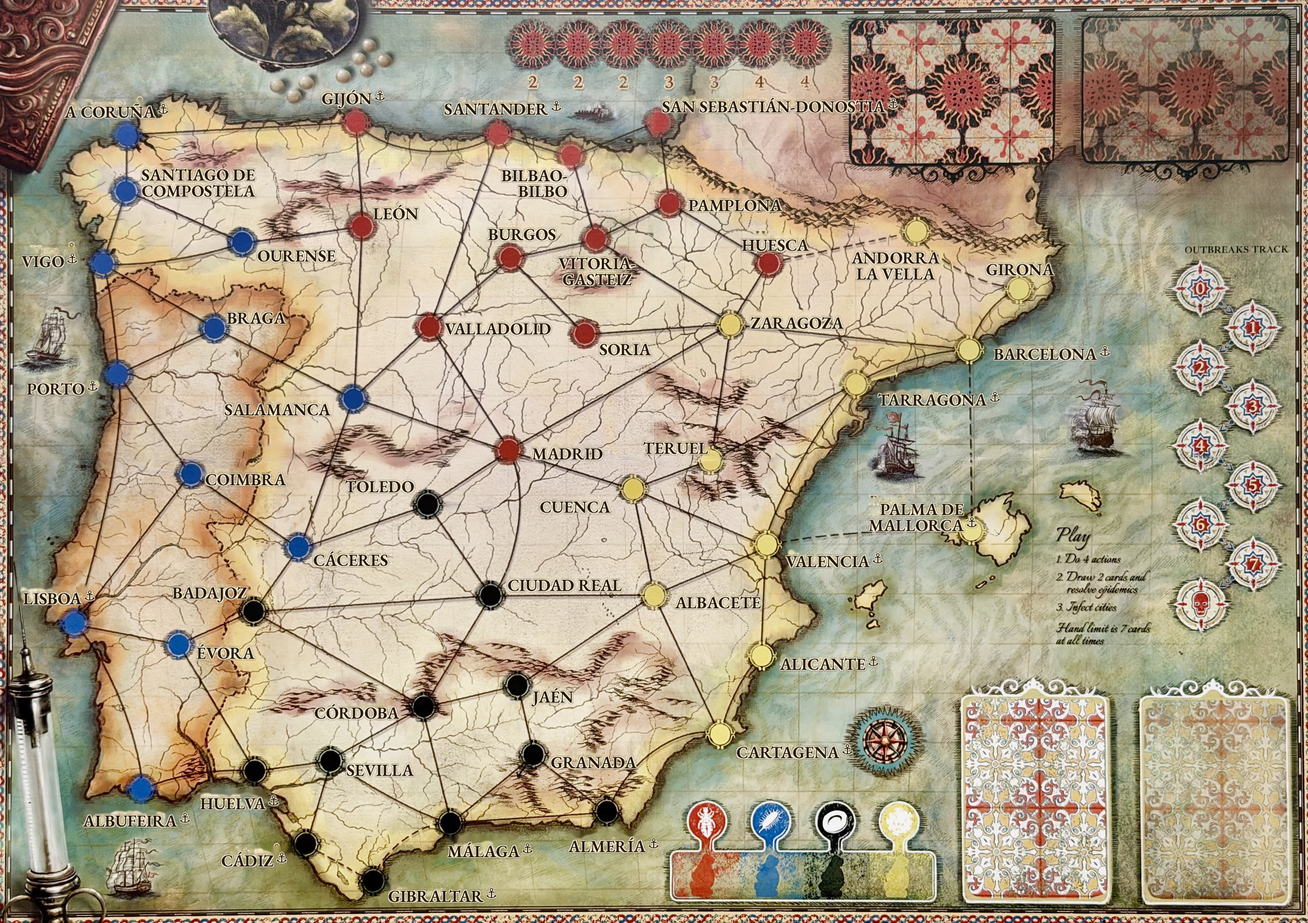
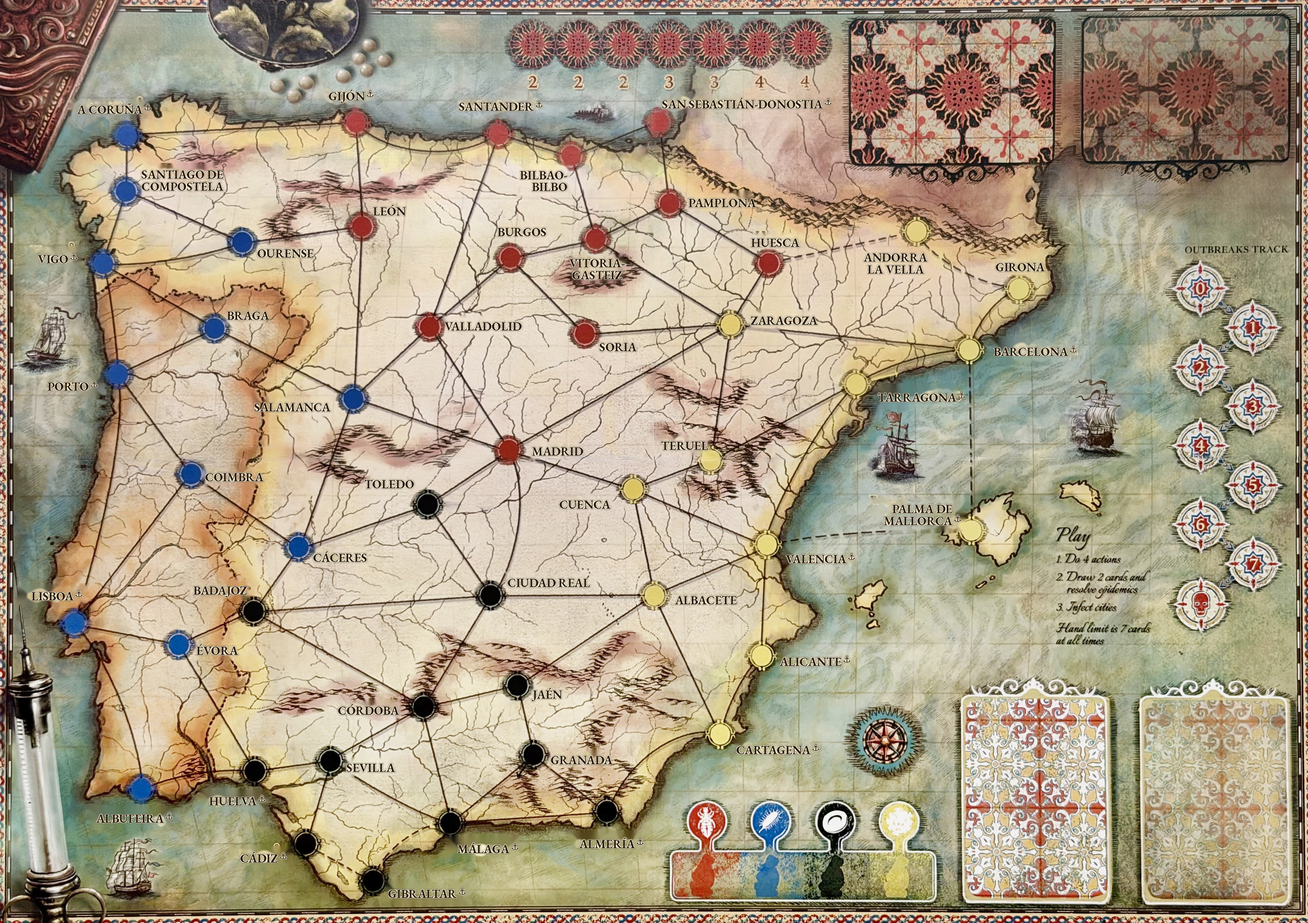
board_clear.jpeg: smaller city names set over the originals
Claude-Session: https://claude.ai/code/session_01MSiwQPWeNrmb6Lp3gKWw7k

diff --git a/tools/clear_board_text.py b/tools/clear_board_text.py
@@ -5,7 +5,7 @@ import json,re,sys,math
 import numpy as np,cv2
 from PIL import Image,ImageDraw,ImageFont
 R='/home/claude/iberia/'
-SIZE=int(sys.argv[1]) if len(sys.argv)>1 else 50
+SIZE=int(sys.argv[1]) if len(sys.argv)>1 else 36
 src=open(R+'src/ui.js').read()
 LO=json.loads(re.search(r"const LABEL_OFF=(\{.*?\});",src).group(1))
 M=json.JSONDecoder().raw_decode(open(R+'src/map.js').read().split('=',1)[1].lstrip())[0]
@@ -23,11 +23,13 @@ for cid,o in LO.items():
     cx,cy=C[cid]['x'],C[cid]['y']
     p0=to_img(cx+o[0]-2,cy+o[1]-2);p1=to_img(cx+o[2]+2,cy+o[3]+2)
     x0,y0,x1,y1=[int(round(v)) for v in (min(p0[0],p1[0]),min(p0[1],p1[1]),max(p0[0],p1[0]),max(p0[1],p1[1]))]
-    boxes[cid]=(x0,y0,x1,y1)
     sub=gray[y0:y1,x0:x1]
-    m=(sub<135).astype(np.uint8)*255
+    m=(sub<148).astype(np.uint8)*255
+    tight=(sub<100)
+    cols=np.where(tight.sum(0)>=3)[0];rows=np.where(tight.sum(1)>=3)[0]
+    boxes[cid]=(x0+4,y0+3,x1-4,y1-3)
     mask[y0:y1,x0:x1]=cv2.bitwise_or(mask[y0:y1,x0:x1],m)
-mask=cv2.dilate(mask,np.ones((7,7),np.uint8))
+mask=cv2.dilate(mask,np.ones((9,9),np.uint8))
 clean=cv2.inpaint(img,mask,6,cv2.INPAINT_TELEA)
 pil=Image.fromarray(cv2.cvtColor(clean,cv2.COLOR_BGR2RGB)).convert('RGBA')
 font=ImageFont.truetype(R+'tools/fonts/EBGaramond-Variable.ttf',SIZE)
@@ -37,46 +39,56 @@ sym=ImageFont.truetype('/usr/share/fonts/truetype/dejavu/DejaVuSans.ttf',int(SIZ
 halo=Image.new('RGBA',pil.size,(0,0,0,0));hd=ImageDraw.Draw(halo)
 txt=Image.new('RGBA',pil.size,(0,0,0,0));td=ImageDraw.Draw(txt)
 CREAM=(247,238,212,235);INK=(38,24,10,255)
+fonts={}
+def F(sz):
+    sz=int(round(sz))
+    if sz not in fonts:
+        f=ImageFont.truetype(R+'tools/fonts/EBGaramond-Variable.ttf',sz)
+        try:f.set_variation_by_axes([650])
+        except Exception:pass
+        fonts[sz]=f
+    return fonts[sz]
 for cid,o in LO.items():
     ci=C[cid];name=ci['name'].upper()
+    x0,y0,x1,y1=boxes[cid]
+    bw,bh=x1-x0,y1-y0
+    port=ci.get('port')
     two=(o[3]-o[1])>=26 and (' ' in name or '-' in name)
     if two:
-        parts=re.split(r'(?<=[ -])',name) if '-' in name and ' ' not in name else name.split(' ')
-        # split roughly in half by characters
+        parts=re.split(r'(?<=-)|\s+',name);parts=[q for q in parts if q]
         best=None
-        for i in range(1,len(parts)):
-            l1=' '.join(parts[:i]).strip();l2=' '.join(parts[i:]).strip()
-            sc=abs(len(l1)-len(l2))
+        for k in range(1,len(parts)):
+            l1=' '.join(parts[:k]);l2=' '.join(parts[k:]);sc=abs(len(l1)-len(l2))
             if best is None or sc<best[0]:best=(sc,l1,l2)
         lines=[best[1],best[2]]
     else: lines=[name]
-    port=ci.get('port')
-    cxm,cym=to_img(ci['x'],ci['y'])
-    x0,y0,x1,y1=boxes[cid]
-    midx=(x0+x1)/2;midy=(y0+y1)/2
-    lh=SIZE*0.95
+    n=len(lines)
+    ref=F(60);wref=max(td.textlength(l,font=ref) for l in lines)+(60*0.95 if port else 0)
+    s_w=60*bw/wref                       # size that makes the new text as wide as the old
+    s_h=(bh/n)/0.78*1.0                  # size from the old line height
+    sz=SIZE
+    font=F(sz);sym=ImageFont.truetype('/usr/share/fonts/truetype/dejavu/DejaVuSans.ttf',int(sz*.8))
+    lh=sz*0.98
     widths=[td.textlength(l,font=font) for l in lines]
-    w=max(widths)+(SIZE*0.95 if port else 0)
-    if o[0]>0: left=x0+4                     # label sits to the right of the city
-    elif o[2]<0: left=x1-4-w                 # to the left
-    else: left=midx-w/2                      # above or below
-    top=midy-lh*len(lines)/2
+    aw=sz*0.95 if port else 0
+    w=max(widths)+aw
+    midx=(x0+x1)/2;midy=(y0+y1)/2
+    if o[0]>0: left=x0
+    elif o[2]<0: left=x1-w
+    else: left=midx-w/2
+    top=midy-lh*n/2-sz*0.12
     for k,l in enumerate(lines):
         lw=widths[k]
-        if o[0]>0: lx=left
-        elif o[2]<0: lx=left+(w-(SIZE*0.95 if port else 0))-lw if len(lines)==1 else left+(w-lw)
-        else: lx=midx-lw/2
-        if len(lines)>1 and o[0]>0: lx=left
-        if len(lines)>1 and not(o[0]>0) and not(o[2]<0): lx=midx-lw/2
+        lx=left if o[0]>0 else (left+(w-aw-lw) if o[2]<0 else midx-lw/2-aw/2*(1 if k==n-1 else 0)*0)
         ly=top+k*lh
-        for dx in (-3,0,3):
-            for dy in (-3,0,3):
+        for dx in (-2,0,2):
+            for dy in (-2,0,2):
                 hd.text((lx+dx,ly+dy),l,font=font,fill=CREAM)
         td.text((lx,ly),l,font=font,fill=INK)
-        if port and k==len(lines)-1:
-            ax=lx+lw+SIZE*0.12;ay=ly+SIZE*0.02
-            hd.text((ax,ay),'⚓',font=sym,fill=CREAM,stroke_width=3,stroke_fill=CREAM)
-            td.text((ax,ay),'⚓',font=sym,fill=INK)
+        if port and k==n-1:
+            ax=lx+lw+sz*0.1;ay=ly+sz*0.04
+            hd.text((ax,ay),'\u2693',font=sym,fill=CREAM,stroke_width=2,stroke_fill=CREAM)
+            td.text((ax,ay),'\u2693',font=sym,fill=INK)
 halo=halo.filter(__import__('PIL.ImageFilter',fromlist=['x']).GaussianBlur(1.2))
 out=Image.alpha_composite(Image.alpha_composite(pil,halo),txt).convert('RGB')
 out.save(R+'assets/board_clear.jpeg',quality=92)
